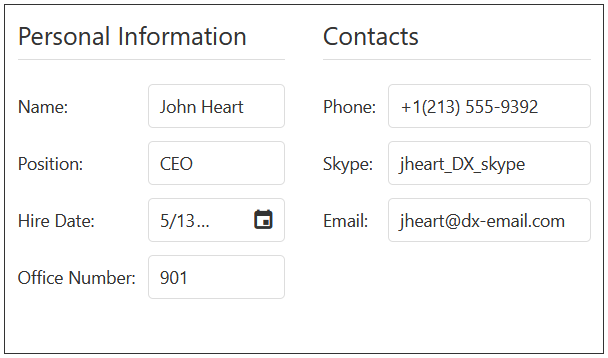
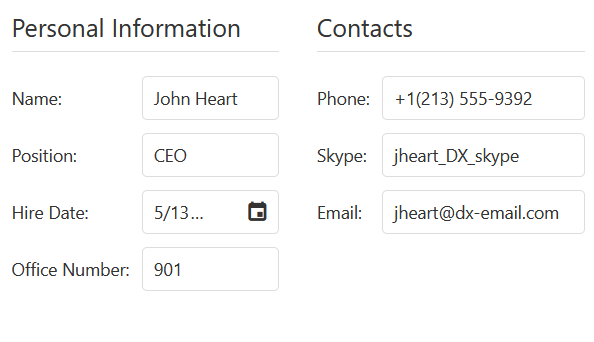
Address Roman's comments

diff --git a/concepts/05 Widgets/Form/01 Getting Started with Form/50 Configure Item Labels.md b/concepts/05 Widgets/Form/01 Getting Started with Form/50 Configure Item Labels.md
@@ -1,10 +1,13 @@
-Simple item [labels](/Documentation/ApiReference/UI_Widgets/dxForm/Item_Types/SimpleItem/label/) display the formatted field names of the [formData](/Documentation/ApiReference/UI_Widgets/dxForm/Configuration/#formData) object. You can change the displayed text in the **label**.[text](/Documentation/ApiReference/UI_Widgets/dxForm/Item_Types/SimpleItem/label/#text) property. 
+You can configure labels for individual items in the [label](/Documentation/ApiReference/UI_Widgets/dxForm/Item_Types/SimpleItem/label/) object. 
 
-The Form displays labels on the left side of editors. The text of all editors is aligned to the left. To change location of all labels, use the [labelLocation](/Documentation/ApiReference/UI_Widgets/dxForm/Configuration/#labelLocation) property. Use **label**.[location](/Documentation/ApiReference/UI_Widgets/dxForm/Item_Types/SimpleItem/label/#location) property to relocate individual labels. You can change the horizontal alignment of individual labels in the [alignment](/Documentation/ApiReference/UI_Widgets/dxForm/Item_Types/SimpleItem/label/#alignment) property.
+The following properties apply to all labels in the Form:
 
-Use the [showColonAfterLabel](/Documentation/ApiReference/UI_Widgets/dxForm/Configuration/#showColonAfterLabel) property to display colons at the end of labels. Use the **label**.[showColon](/Documentation/ApiReference/UI_Widgets/dxForm/Item_Types/SimpleItem/label/#showColon) property for the same purpose for an individual label. Individual settings override common settings.
+- [alignItemLabels](/Documentation/ApiReference/UI_Widgets/dxForm/Configuration/#alignItemLabels)
+- [alignItemLabelsInAllGroups](/Documentation/ApiReference/UI_Widgets/dxForm/Configuration/#alignItemLabelsInAllGroups)
+- [labelLocation](/Documentation/ApiReference/UI_Widgets/dxForm/Configuration/#labelLocation)
+- [showColonAfterLabel](/Documentation/ApiReference/UI_Widgets/dxForm/Configuration/#showColonAfterLabel)
 
-The following code shows how to locate all labels on top of editors. We align the `Notes` item label's text to the center. We also hide the colons after all labels:
+The following code shows how to configure the **labelLocation** property to place all labels on top of editors. We use the **label**.[alignment](/Documentation/ApiReference/UI_Widgets/dxForm/Item_Types/SimpleItem/label/#alignment) property to align the `Notes` item label's text to the center:
 
 ---
 ##### jQuery
@@ -16,7 +19,6 @@ The following code shows how to locate all labels on top of editors. We align th
                 // ...
             },
             labelLocation: "top",
-            showColonAfterLabel: false,
             colCount: 2,
             items: ["name", "position", "hireDate", "officeNumber", {
                 dataField: "notes",
@@ -34,8 +36,7 @@ The following code shows how to locate all labels on top of editors. We align th
     <dx-form
         [formData]="employee"
         [colCount]="2"
-        labelLocation="top"
-        [showColonAfterLabel]="false">
+        labelLocation="top">
         <dxi-item dataField="name"></dxi-item>
         <dxi-item dataField="position"></dxi-item>
         <dxi-item dataField="hireDate"></dxi-item>
@@ -89,8 +90,7 @@ The following code shows how to locate all labels on top of editors. We align th
         <DxForm 
             :form-data="employee"
             :col-count="2"
-            label-location="top"
-            :show-colon-after-label="false">
+            label-location="top">
             <DxSimpleItem data-field="name"/>
             <DxSimpleItem data-field="position"/>
             <DxSimpleItem data-field="hireDate"/>
@@ -149,8 +149,7 @@ The following code shows how to locate all labels on top of editors. We align th
             <Form
                 formData={employee}
                 colCount={2}
-                labelLocation="top"
-                showColonAfterLabel={false}>
+                labelLocation="top">
                 <SimpleItem dataField="name" />
                 <SimpleItem dataField="position" />
                 <SimpleItem dataField="hireDate" />

diff --git a/concepts/05 Widgets/Form/01 Getting Started with Form/80 Submit the Form.md b/concepts/05 Widgets/Form/01 Getting Started with Form/80 Submit the Form.md
@@ -1,8 +1,6 @@
-To submit the Form, wrap it in the HTML <a href="https://developer.mozilla.org/en-US/docs/Web/HTML/Element/form" target="_blank">form</a> element. Then add the [button item](/Documentation/ApiReference/UI_Widgets/dxForm/Item_Types/ButtonItem/) and set its **buttonOptions**.[useSubmitBehavior](/Documentation/ApiReference/UI_Widgets/dxButton/Configuration/#useSubmitBehavior) property to **true**. If you specify any validation rules, you can submit the Form data to the server only when all validation checks pass successfully.  
+To submit a form, add the [Button Item](/Documentation/ApiReference/UI_Widgets/dxForm/Item_Types/ButtonItem/) and set the [useSubmitBehavior](/Documentation/ApiReference/UI_Widgets/dxButton/Configuration/#useSubmitBehavior) property to **true**. The Form can be submitted to a server only when all the validation checks pass succefully. 
 
-Usually, Form editors should be submitted to the server after being successfully validated on the client. The following code shows how to do this using a button form item. Note that the Form widget is wrapped in the <form> tag in the markup.
-
-In this tutorial, we use the <a href="https://developer.mozilla.org/en-US/docs/Web/API/WindowOrWorkerGlobalScope/setTimeout" target="_blank">setTimeout</a> function to emulate the form submission. We set the [preventDefault](/Documentation/ApiReference/Common/Object_Structures/dxEvent/Methods/#preventDefault) property to **true** to override the HTML form submit event:
+In this tutorial, we use the <a href="https://developer.mozilla.org/en-US/docs/Web/API/WindowOrWorkerGlobalScope/setTimeout" target="_blank">setTimeout</a> function to emulate the form submission. The Form is wrapped in the HTML <a href="https://developer.mozilla.org/en-US/docs/Web/HTML/Element/form" target="_blank">form</a> element. We set the [preventDefault](/Documentation/ApiReference/Common/Object_Structures/dxEvent/Methods/#preventDefault) property to **true** to override the HTML form submit event:
 
 ---
 ##### jQuery

diff --git a/concepts/05 Widgets/Form/01 Getting Started with Form/60 Modify the Form at Runtime.md b/concepts/05 Widgets/Form/01 Getting Started with Form/60 Modify the Form at Runtime.md
@@ -1,6 +1,4 @@
-You can modify any form, editor or item properties at runtime. In **jQuery**, use the [option(optionName, optionValue)](/Documentation/ApiReference/UI_Widgets/dxForm/Methods/#optionoptionName_optionValue) method to update a property value. In **Angular**, **Vue** or **React**, bind the property's value to a component property.
-
-The following code shows how to dynamically make all editors in the Form read-only. To achieve this, we modify the [readOnly](/Documentation/ApiReference/UI_Widgets/dxForm/Configuration/#readOnly) property after the click on [CheckBox](/Documentation/ApiReference/UI_Widgets/dxCheckBox/).
+You can change any form, editor, or item properties at runtime. The following code dynamically makes the entire Form read-only. In **jQuery**, use the [option(optionName, optionValue)](/Documentation/ApiReference/UI_Widgets/dxForm/Methods/#optionoptionName_optionValue) method to update the [readOnly](/Documentation/ApiReference/UI_Widgets/dxForm/Configuration/#readOnly) property's value. In **Angular**, **Vue** or **React**, bind the property's value to a component property.
 
 ---
 ##### jQuery

diff --git a/concepts/05 Widgets/Form/01 Getting Started with Form/40 Organize the Form Items/10 In Columns.md b/concepts/05 Widgets/Form/01 Getting Started with Form/40 Organize the Form Items/10 In Columns.md
@@ -9,7 +9,7 @@ An item can occupy more than one column. For this, specify the [colSpan](/Docume
 
     <!-- tab: index.js -->
     $(function() {
-        $("#formContainer").dxForm({
+        $("#form").dxForm({
             formData: {
                 name: "John Heart",
                 position: "CEO",
